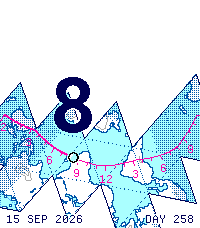
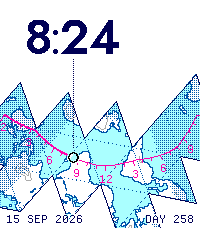
Day strip: the time in full, hours and minutes, called out above the net
A whole day is too long a scale to read minutes from, so the Sun and Moon
day strips now set the time as H:MM in the open paper above the rolled net,
tied to the body by a dotted leader. The Jost figure set gains a drawn colon.

Claude-Session: https://claude.ai/code/session_013jrbqnwLffJYPYurYaCgSZ

Changed region(s): [[0.27, 0.3377, 0.48, 0.5833], [0.12, 0.0614, 0.45, 0.2456], [0.45, 0.0614, 0.6, 0.2456]]

diff --git a/src/enroute-render.js b/src/enroute-render.js
@@ -65,12 +65,25 @@ const textPixels=(font,text,x,baseline)=>{
 };
 const textWidth=(font,text)=>[...text].reduce((s,c)=>s+font[c].a,0);
 const gapFor=size=>Math.round(size/16);
-const runWidth=(text,size)=>[...text].reduce((s,c)=>s+numerals.sizes[size][c].width,0)+gapFor(size)*(text.length-1);
+// The figure set is digits only; the colon is drawn to match: two rounded
+// square dots the weight of the strokes, one on the baseline and one at
+// the height of the figures' middle bar.
+const colons=new Map();
+function glyph(size,c){
+  const set=numerals.sizes[size];if(c!==':')return set[c];
+  if(!colons.has(size)){
+    const h=set['0'].height,d=Math.max(3,Math.round(h/7)),top=Math.round(h*.3),rows=[];
+    for(let y=0;y<h;y++){const r=y>=top&&y<top+d?y-top:y>=h-d?y-(h-d):-1;rows.push(r<0?'.'.repeat(d):[...Array(d)].map((_,x)=>(x===0||x===d-1)&&(r===0||r===d-1)&&d>3?'.':'#').join(''));}
+    colons.set(size,{width:d,height:h,rows});
+  }
+  return colons.get(size);
+}
+const runWidth=(text,size)=>[...text].reduce((s,c)=>s+glyph(size,c).width,0)+gapFor(size)*(text.length-1);
 const runHeight=size=>numerals.sizes[size]['0'].height;
 // Figures sit on a shared baseline; the tallest glyph sets the top.
 function figurePixels(text,size,x,y){
-  const set=numerals.sizes[size],h=Math.max(...[...text].map(c=>set[c].height)),out=[];let cx=x;
-  for(const c of text){const g=set[c];for(let yy=0;yy<g.height;yy++)for(let xx=0;xx<g.width;xx++)if(g.rows[yy][xx]==='#')out.push([cx+xx,y+h-g.height+yy]);cx+=g.width+gapFor(size);}
+  const h=Math.max(...[...text].map(c=>glyph(size,c).height)),out=[];let cx=x;
+  for(const c of text){const g=glyph(size,c);for(let yy=0;yy<g.height;yy++)for(let xx=0;xx<g.width;xx++)if(g.rows[yy][xx]==='#')out.push([cx+xx,y+h-g.height+yy]);cx+=g.width+gapFor(size);}
   return out;
 }
 const bounds=pixels=>{
@@ -284,15 +297,17 @@ export function renderEnroute({camera,ground,relief,light:zones,plate,epoch,time
       for(const [a,b] of textPixels(LABEL,parts.m,lx,B-10))plot(buf,a,b,sc());minuteBox={x:lx,y:B-18,w:lw,h:8};
     }
   }else if(camera.day){
-    // On the day strip the present hour stands over the body; the strip's
-    // own figures carry the rest of the day.
-    const size=hour.length>1?FIGURE.hourTwo:FIGURE.hour,hw=runWidth(hour,size),gy=my-24-runHeight(size);
-    hourPixels=figurePixels(hour,size,place(mx,hw),gy);nextSolid=[];letter(hourPixels,ink('ink'));
+    // A whole day is too long a scale to read minutes from, so the strip
+    // carries the time in full, hours and minutes, over the body; the
+    // strip's own figures carry the rest of the day.
+    // It stands in the open paper above the net where there is room, tied
+    // to the body by a dotted leader, like a callout on a chart.
+    const time=`${hour}:${parts.m}`,size=FIGURE.scale,hw=runWidth(time,size),fh=runHeight(size);
+    const netTop=Math.max(0,Math.min(...camera.tiles.map(t=>t.box[1]))),above=my-18-fh;
+    const gy=netTop>=fh+16?Math.round((netTop-fh)/2):above>=4?above:my+18;
+    hourPixels=figurePixels(time,size,place(mx,hw),gy);nextSolid=[];letter(hourPixels,ink('ink'));
+    if(gy+fh<my-18)for(let y=gy+fh+5;y<=my-10;y+=2)plot(buf,mx,y,ink('ink')(mx,y));
     index={x:mx,y:my};
-    if(readout){
-      const lw=textWidth(LABEL,parts.m),lx=Math.max(4,Math.min(W-4-lw,Math.round(mx-lw/2)));
-      letter(textPixels(LABEL,parts.m,lx,my-11),ink('mark'),1);minuteBox={x:lx,y:my-19,w:lw,h:8};
-    }
   }else{
     const size=hour.length>1||next.length>1?FIGURE.hourTwo:FIGURE.hour,hw=runWidth(hour,size),nw=runWidth(next,size),gy=c0.y-26-runHeight(size);
     hourPixels=figurePixels(hour,size,place(c0.x,hw),gy);nextSolid=figurePixels(next,size,place(c1.x,nw),gy);
@@ -319,7 +334,7 @@ export function renderEnroute({camera,ground,relief,light:zones,plate,epoch,time
     margin(`${String(d.day).padStart(2,'0')} ${MONTHS[d.month-1]} ${d.year}`,`DAY ${String(d.dayOfYear).padStart(3,'0')}`,H-5,ink('ink'));
   }
   return {buf,marker:{x:p.x,y:p.y,lat:body.lat,lon:body.lon},stations,
-    figure:{hour,minute:parts.m,next,box:bounds(hourPixels),nextBox:bounds(nextSolid),index,scale:{x0:X0,x1:X1},readout:minuteBox},rose:camera.world?null:{...c0,r:20}};
+    figure:{hour,minute:parts.m,next,time:camera.day?`${hour}:${parts.m}`:null,box:bounds(hourPixels),nextBox:bounds(nextSolid),index,scale:{x0:X0,x1:X1},readout:minuteBox},rose:camera.world?null:{...c0,r:20}};
 }
 // The calendar date where the watch is, and its day of the year.
 const dateFormats=new Map();

diff --git a/index.html b/index.html
@@ -9,7 +9,7 @@
 <fieldset><legend>Follow</legend><div class="segmented"><button data-body="sun" aria-pressed="true">Sun</button><button data-body="moon" aria-pressed="false">Moon</button><button data-body="iss" aria-pressed="false">ISS archive</button></div><p class="help" id="body-note"></p></fieldset>
 <fieldset id="live-satellites"><legend>Live satellites</legend><div class="live-row"><select id="sat-select" aria-label="Satellite"></select><button id="sat-track">Track now</button></div><p class="help" id="sat-status">Current orbital elements come from CelesTrak, at most once every two hours per satellite, and are used only within three days of their own epoch.</p></fieldset>
 <fieldset id="moon-light"><legend>Moonlight</legend><div class="segmented"><button data-observation="day" aria-pressed="true">By day</button><button data-observation="dusk" aria-pressed="false">Nightfall</button><button data-observation="night" aria-pressed="false">By night</button></div><p class="help">The same Moon over three evenings. On the paper plates, night is a printed dot tint that deepens through civil twilight.</p></fieldset>
-<fieldset><legend>Projection</legend><div class="segmented"><button data-projection="chart" aria-pressed="true">Chart</button><button data-projection="fuller" aria-pressed="false">Rolling Fuller</button></div><p class="help" id="projection-note">A spike: the icosahedron rolls along the route, printing each face as it touches down, and floats as a net on the paper: the route’s faces and their true neighbours, with no cuts. Time runs left to right; the compass rose shows where north is. The Sun and Moon show their whole local day as one rolled strip.</p></fieldset>
+<fieldset><legend>Projection</legend><div class="segmented"><button data-projection="chart" aria-pressed="true">Chart</button><button data-projection="fuller" aria-pressed="false">Rolling Fuller</button></div><p class="help" id="projection-note">A spike: the icosahedron rolls along the route, printing each face as it touches down, and floats as a net on the paper: the route’s faces and their true neighbours, with no cuts. Time runs left to right; the compass rose shows where north is. The Sun and Moon show their whole local day as one rolled strip, with the time in full over it.</p></fieldset>
 <fieldset><legend>Plate</legend><div id="enroute-plates" class="theme-options"></div></fieldset>
 <fieldset><legend>Read the chart</legend><p class="help">The hour figures stand over their stations: this hour solid over its compass rose, the next outlined over its reporting point. Between them the magenta route is a graduated scale, two pixels a minute, with longer marks at five and fifteen minutes and the quarters numbered. The Sun or Moon symbol is the index; the bold line behind it is the hour already flown. On the ISS world view the same scale is set in a panel above the map, with a triangular index. A plain minute figure can be added under Clock. Contours fall every 1,000 m, dotted at 500 m; offshore, the dotted blue line is the 200 m edge of the continental shelf. Three-letter codes are the tracking stations of NASA’s Mercury and Apollo networks. The margin carries the date and its day of the year.</p></fieldset>
 <details class="art-options"><summary>Clock</summary><div><label class="select-label" for="enroute-zone">Clock zone<select id="enroute-zone"><option value="America/New_York">Eastern time</option><option value="UTC">UTC</option><option value="Europe/London">London</option><option value="Asia/Kolkata">Kolkata</option></select></label><label class="art-checkbox"><input type="checkbox" id="enroute-24"> 24-hour figures</label><label class="art-checkbox"><input type="checkbox" id="enroute-readout"> Minute figure over the index</label></div></details><div class="art-study-date"><span id="enroute-date"></span><span>FROZEN STUDY</span></div></aside></section>

diff --git a/docs/STUDY-06.md b/docs/STUDY-06.md
@@ -42,7 +42,7 @@ The spike (`src/roll.js`, *Projection → Rolling Fuller* on the page) rolls the
 
 The current version is a **floating net**, a true net of the icosahedron grown from the route. The faces the route rolls over come first; then up to two rings of neighbours are added, nearest the middle of the hour first. Each face is printed at most once, so no place ever appears beside a copy of itself, and a face joins only where it truly meets every face already printed beside it. Neighbouring faces are therefore always consecutive on the globe, and the net contains no cuts at all. A satellite's strip is also kept under one lap (the hour plus ten minutes either side, against the ISS's 92-minute orbit), so the route never rolls back over its own faces. Folds inside it are quiet dotted lines, its outline is inked, and the rest of the view is plain paper (or dark glass on the Plotboard). The camera turns the net so the hour runs left to right like a ruler, and the compass rose points to true north, because north is no longer up. On a whole-orbit net only the 2,000 m and 4,000 m contours remain, and only the tracking stations that can hear the satellite during this hour are drawn, each with its acquisition circle.
 
-It suits satellites best. On the Gray–Fuller faces great circles are nearly straight, so an ISS hour, about 240° of orbit, unrolls into a zigzag band of four or five faces, with the orbit as a near-straight graduated line through the middle. Small kinks remain at face edges, because the transform is not exactly gnomonic and the Earth turns beneath the orbit. For the Sun and Moon an hour covers only part of one face, so on the Fuller sheet they show the **whole local day** instead, midnight to midnight. That is 23 or 25 hours across a daylight-saving change. The day rolls out as a band of the net running left to right, with a tick every hour, the hours numbered every three and the two midnights marked longest. The day so far is bold, the body is the index, and the present hour stands large above it. Near an equinox the Sun's day is almost a great circle and lies nearly straight. The Moon's, or the Sun's near a solstice, runs well away from the equator, and a circle of latitude unrolls as an arc, the way a cone flattens into a fan. The view therefore fits the whole arc, not just its chord.
+It suits satellites best. On the Gray–Fuller faces great circles are nearly straight, so an ISS hour, about 240° of orbit, unrolls into a zigzag band of four or five faces, with the orbit as a near-straight graduated line through the middle. Small kinks remain at face edges, because the transform is not exactly gnomonic and the Earth turns beneath the orbit. For the Sun and Moon an hour covers only part of one face, so on the Fuller sheet they show the **whole local day** instead, midnight to midnight. That is 23 or 25 hours across a daylight-saving change. The day rolls out as a band of the net running left to right, with a tick every hour, the hours numbered every three and the two midnights marked longest. The day so far is bold, and the body is the index. A day is too long a scale to read minutes from, so the time is given in full, hours and minutes (4:24), in the open paper above the net. A dotted leader ties it to the body, like a callout on a chart. When the net leaves no room above, the time sits over the body instead. Near an equinox the Sun's day is almost a great circle and lies nearly straight. The Moon's, or the Sun's near a solstice, runs well away from the equator, and a circle of latitude unrolls as an arc, the way a cone flattens into a fan. The view therefore fits the whole arc, not just its chord.
 
 ![Rolling Fuller spike proofs](screenshots/study-06-fuller-contact-sheet.png)
 
